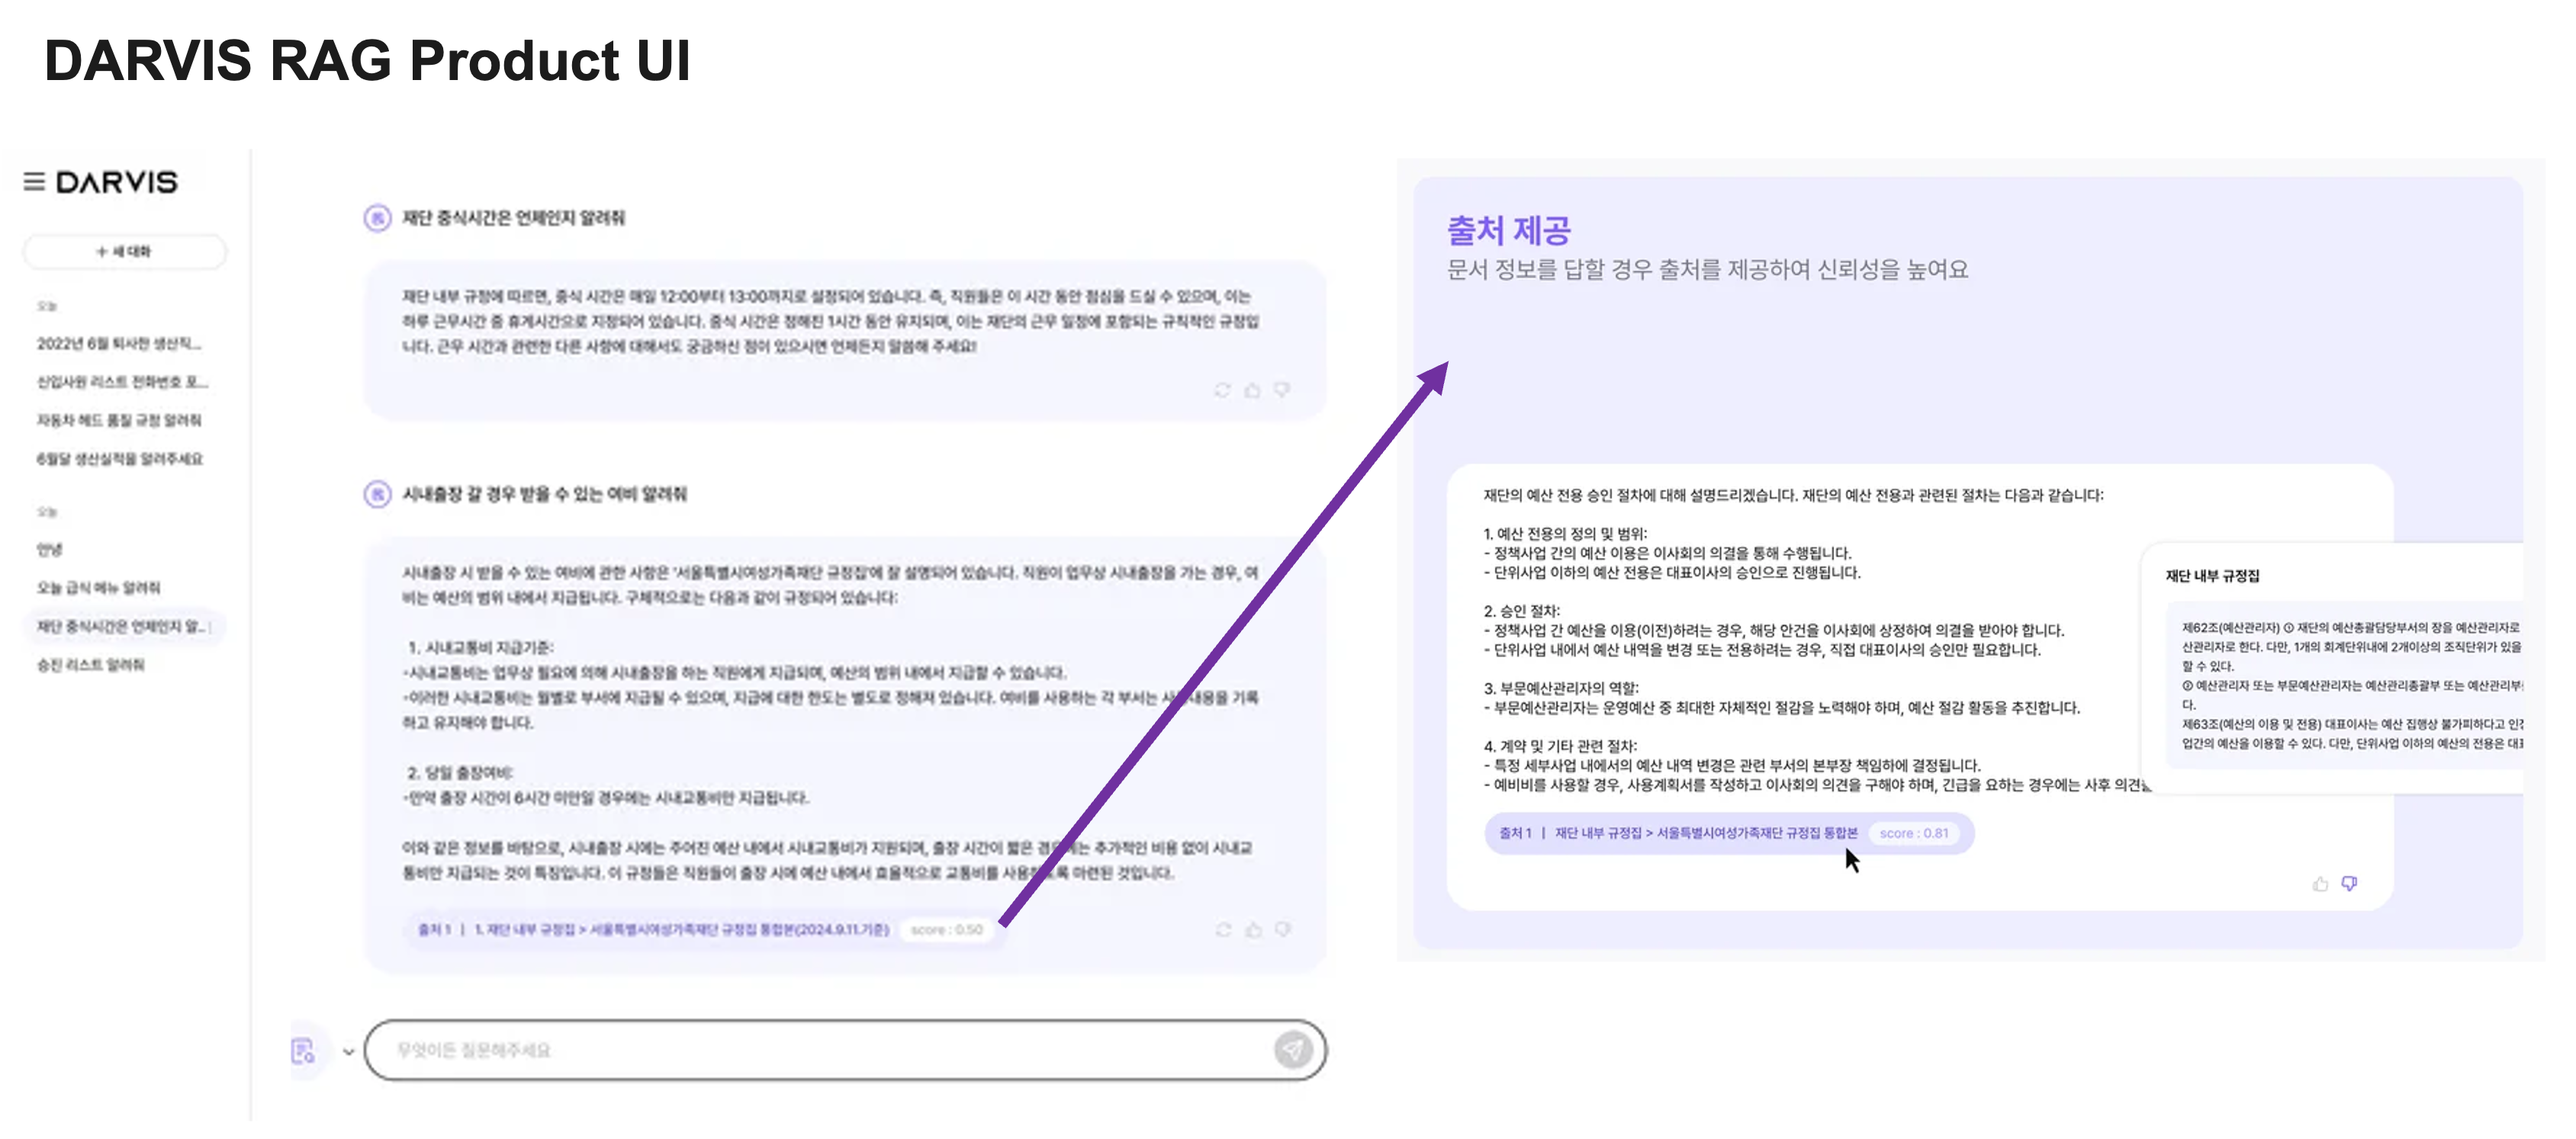
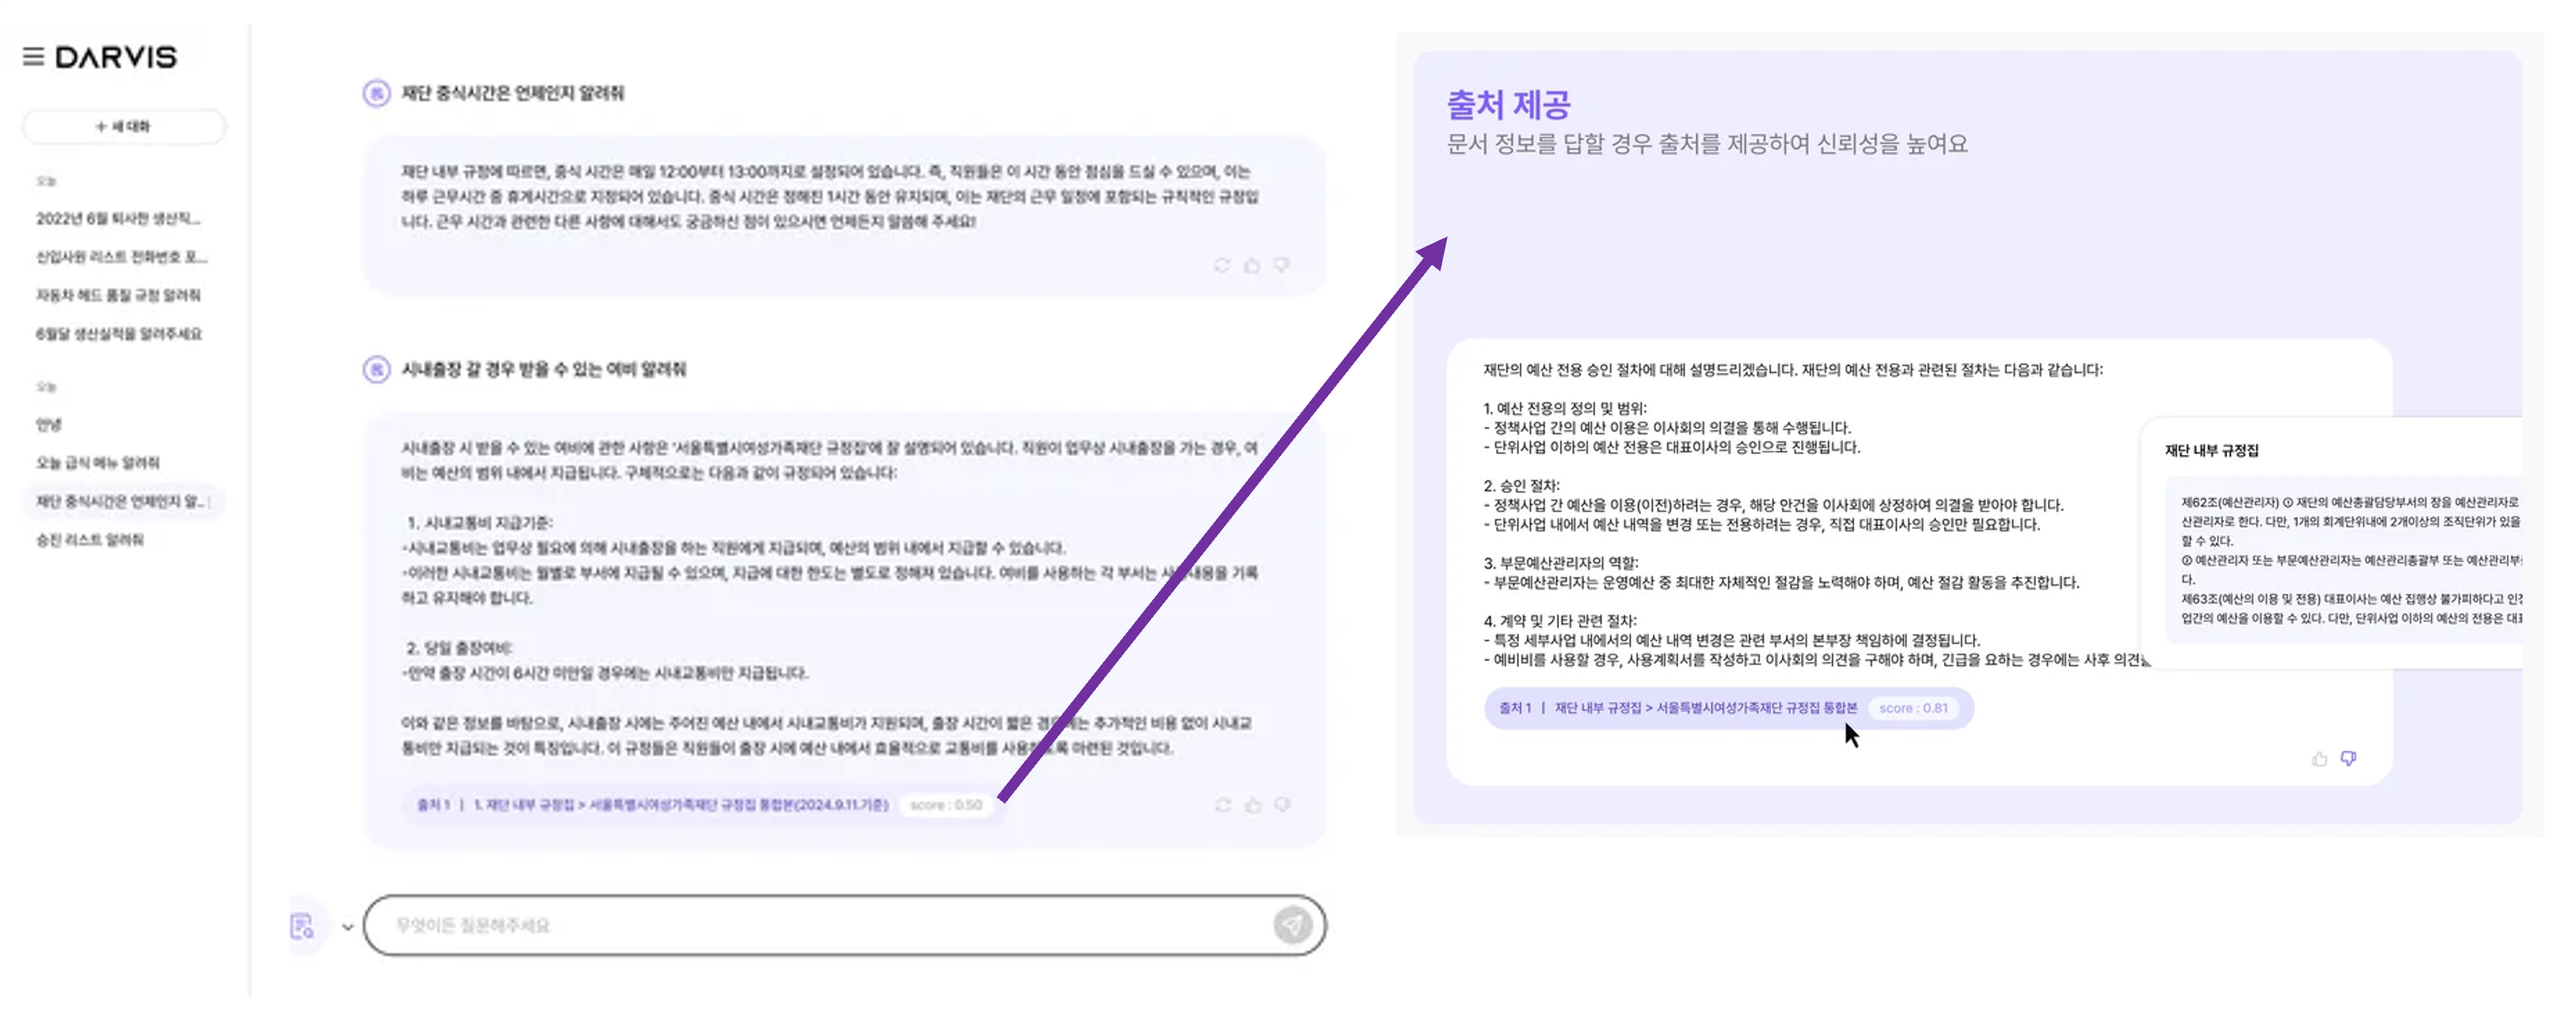
다이어그램 asset 재매핑 (파일명 변경 반영)
- 바뀐 파일명에 맞춰 DIAGRAMS 매핑 갱신 (index.html + assets/diagrams/README.md)
- p01: 'AI Voice System Architecture.png' (대소문자 리네임 — Mac 대소문자 구분 대응)
- p02: 'LLM STT Evaluation Design.png' 신규 매핑
- p05·p12·p13: *Overview / Training Data Construction 등 새 이름으로 교체
- p08·p09: 'DARVIS Product Overview.png' 를 공통 대표 이미지로 추가
- 고해상도 교체 이미지 반영, 구 파일명 정리

diff --git a/app/index.html b/app/index.html
@@ -554,13 +554,14 @@ function pfInit(root){
 // 프로젝트별 다이어그램 매핑 — assets/diagrams/ 안의 실제 파일명. 프로젝트당 1개 이상 지원.
 // 파일이 있으면 pfInit이 로드해 placeholder 를 교체, 없으면 placeholder 유지.
 const DIAGRAMS={
-  p01:['ai voice system architecture.png'],
-  p05:['Cephalometric Landmark Detection.png'],
-  p08:['Text2SQL Product UI.png','Text2SQL System Architecture.png','DARVIS DB통합.png'],
-  p09:['RAG architecture.png'],
+  p01:['AI Voice System Architecture.png'],
+  p02:['LLM STT Evaluation Design.png'],
+  p05:['Cephalometric Landmark Detection Overview.png'],
+  p08:['DARVIS Product Overview.png','DARVIS Text2SQL Product UI.png','Text2SQL System Architecture.png'],
+  p09:['DARVIS Product Overview.png','RAG System  Architecture.png','DARVIS RAG Product UI.png'],
   p11:['Auto positioning.jpg'],
-  p12:['panorama labeling tool.png'],
-  p13:['Dental Panoramic Radiograph Segmentation.png']
+  p12:['Training Data Construction Project-Labeling Tool.png'],
+  p13:['Dental Panoramic Radiograph Segmentation Overview.png']
 };
 // 파일명 → 사람이 읽을 캡션 (확장자 제거·언더스코어 정리)
 function diagCap(fn){

diff --git a/assets/diagrams/README.md b/assets/diagrams/README.md
@@ -10,13 +10,14 @@
 
 ```js
 const DIAGRAMS={
-  p01:['ai voice system architecture.png'],
-  p05:['Cephalometric Landmark Detection.png'],
-  p08:['Text2SQL Product UI.png','Text2SQL System Architecture.png','DARVIS DB통합.png'],   // 프로젝트당 여러 장 가능
-  p09:['RAG architecture.png'],
+  p01:['AI Voice System Architecture.png'],
+  p02:['LLM STT Evaluation Design.png'],
+  p05:['Cephalometric Landmark Detection Overview.png'],
+  p08:['DARVIS Product Overview.png','DARVIS Text2SQL Product UI.png','Text2SQL System Architecture.png'],   // 프로젝트당 여러 장 가능
+  p09:['DARVIS Product Overview.png','RAG System  Architecture.png','DARVIS RAG Product UI.png'],
   p11:['Auto positioning.jpg'],
-  p12:['panorama labeling tool.png'],
-  p13:['Dental Panoramic Radiograph Segmentation.png']
+  p12:['Training Data Construction Project-Labeling Tool.png'],
+  p13:['Dental Panoramic Radiograph Segmentation Overview.png']
 };
 ```
 
@@ -24,16 +25,14 @@ const DIAGRAMS={
 
 | 프로젝트 | 파일 |
 |---|---|
-| p01 · C-arm 음성 제어 | `ai voice system architecture.png` |
-| p05 · Cephalo 랜드마크 | `Cephalometric Landmark Detection.png` |
-| p08 · Text-to-SQL (DARVIS) | `Text2SQL Product UI.png`, `Text2SQL System Architecture.png`, `DARVIS DB통합.png` |
-| p09 · RAG 챗봇 | `RAG architecture.png` |
+| p01 · C-arm 음성 제어 | `AI Voice System Architecture.png` |
+| p02 · LLM·STT 평가 | `LLM STT Evaluation Design.png` |
+| p05 · Cephalo 랜드마크 | `Cephalometric Landmark Detection Overview.png` |
+| p08 · Text-to-SQL (DARVIS) | `DARVIS Product Overview.png`, `DARVIS Text2SQL Product UI.png`, `Text2SQL System Architecture.png` |
+| p09 · RAG 챗봇 | `DARVIS Product Overview.png`, `RAG System  Architecture.png`, `DARVIS RAG Product UI.png` |
 | p11 · 오토포지셔닝 | `Auto positioning.jpg` |
-| p12 · 어노테이션 툴 | `panorama labeling tool.png` |
-| p13 · Panoramic 분할 | `Dental Panoramic Radiograph Segmentation.png` |
-
-> `DARVIS RAG Product UI.png` 는 아직 어느 프로젝트에도 매핑돼 있지 않습니다 (p08/p09 중 어디에 붙일지
-> 애매해 자동으로 넣지 않았습니다) — 필요하면 위 표와 `DIAGRAMS` 상수에 직접 추가해주세요.
+| p12 · 어노테이션 툴 | `Training Data Construction Project-Labeling Tool.png` |
+| p13 · Panoramic 분할 | `Dental Panoramic Radiograph Segmentation Overview.png` |
 
 ## 이미지 추가 / 교체
 
